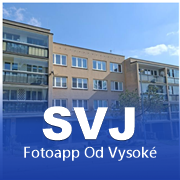
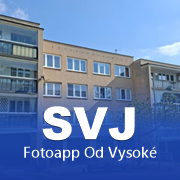
Ikona: výřez uprostřed fotky bez bílých okrajů, verze 1.8.1

diff --git a/app/index.html b/app/index.html
@@ -141,7 +141,7 @@ html:has(#splash:not(.out)){overflow:hidden}
 <script>
 // ================= nastavení =================
 const ENDPOINT = 'https://script.google.com/macros/s/AKfycbyx3UjK_0rqmvNLEMBZPWUpW4dcsu8N3Ovxy3eNb5d4YVUj1zM64mrr8xvn3_uQigSI/exec';
-const VERSION = '1.8.0';
+const VERSION = '1.8.1';
 const $ = id => document.getElementById(id);
 const lsGet = k => { try { return localStorage.getItem(k); } catch (e) { return null; } };
 const lsSet = (k, v) => { try { localStorage.setItem(k, v); } catch (e) {} };

diff --git a/app/sw.js b/app/sw.js
@@ -1,5 +1,5 @@
 // Offline: appka se uloží do cache. Nová verze čeká na potvrzení v appce.
-const VERSION = '1.8.0';
+const VERSION = '1.8.1';
 const CACHE = 'fotoapp-v' + VERSION;
 const SHELL = ['./', 'index.html', 'manifest.webmanifest', 'icon-96.png', 'icon-192.png', 'icon-512.png', 'apple-touch-icon.png'];
 self.addEventListener('install', e => e.waitUntil(
